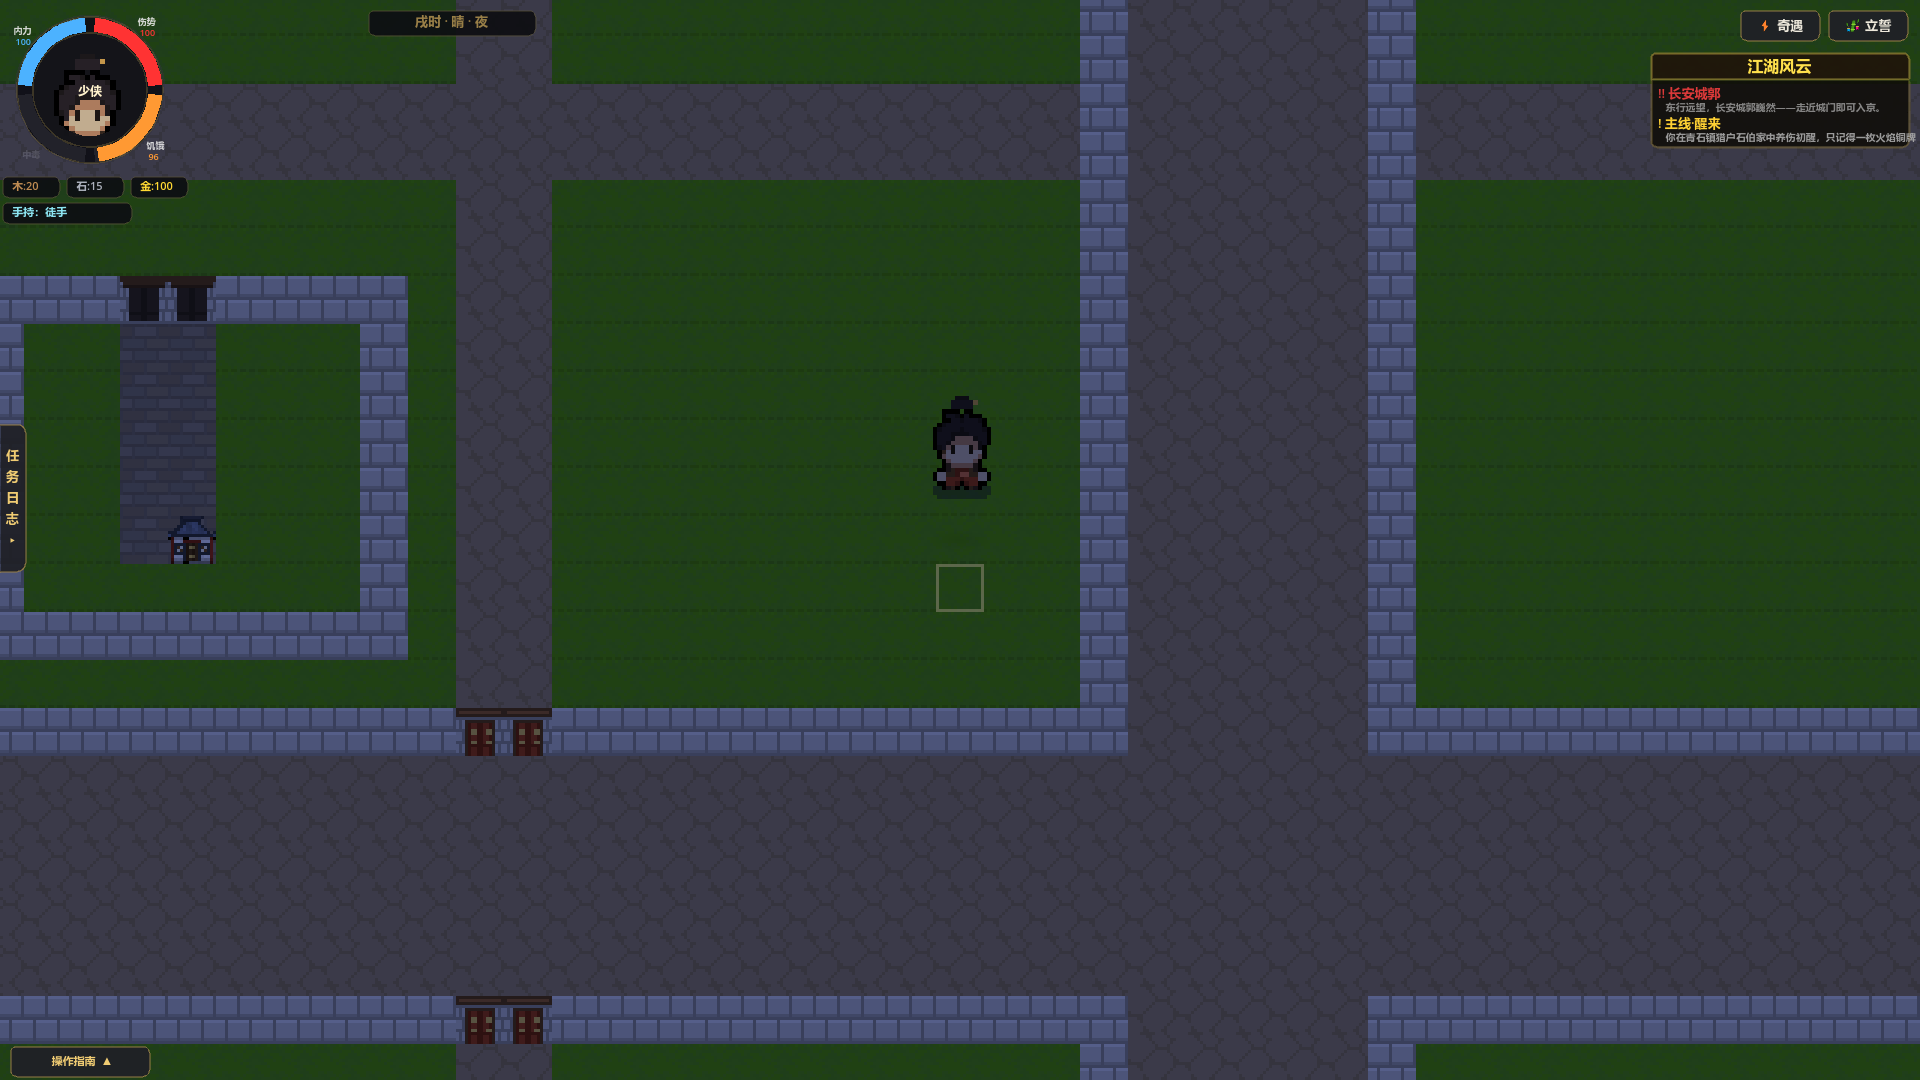
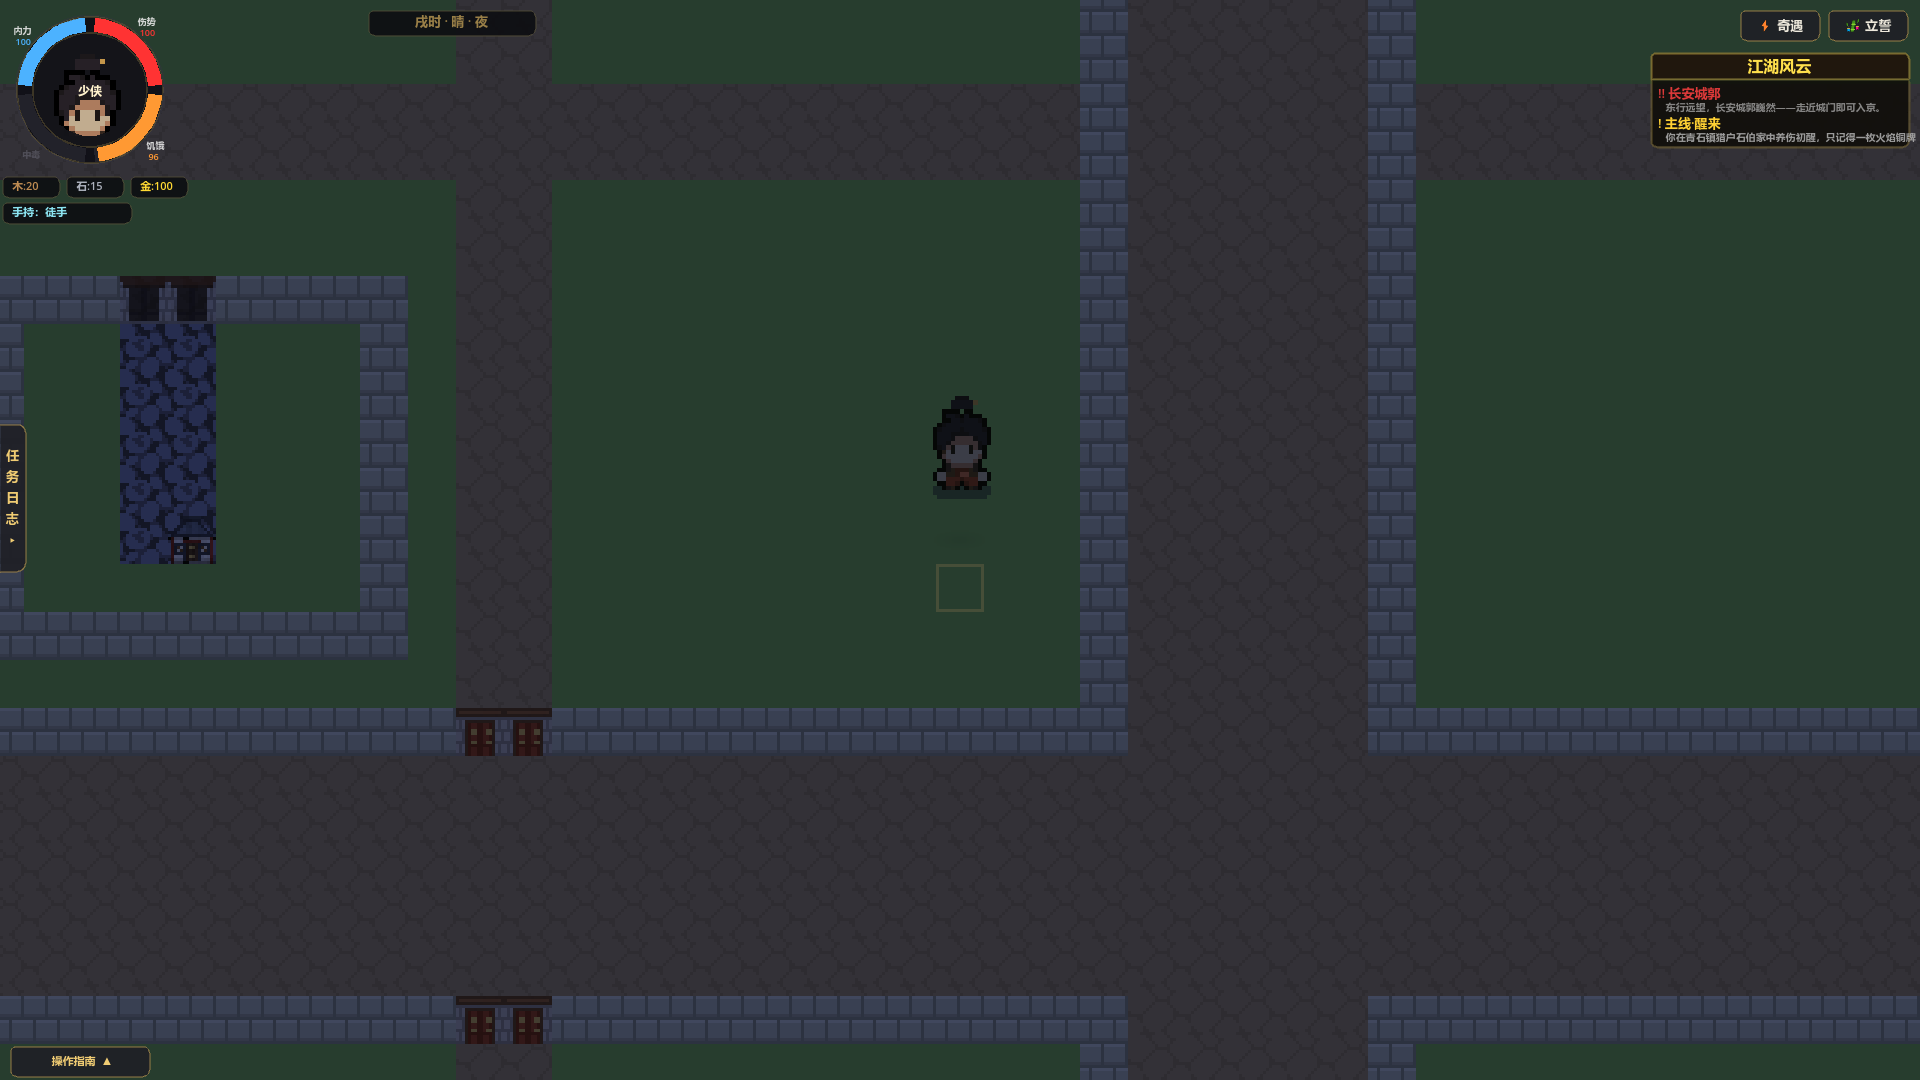
feat: 整包换血Slice B——地形瓦片/水系六帧/岸环八向/松橡四季树表切MW(regress118绿/E2E全PASS)
- tools/import_mw22_tiles.py(新): MW->sprites/tiles_mw22/(31文件,gitignore本地生成)——地面13+装饰11+water_anim 96x16六帧(MW中心帧实测静止->程序化对角微光波纹)+shore.png 80x80岸环八向(MW池塘边块1:1映射既有shore_cells布局)+山崖x3+松/橡四季树表4x2=8变体(春4/秋2/枯1/雪1程序化调色,树底对齐防悬空)
- tileset_generator.gd: 注册表改[MW首选,自绘回退]双列(25个ID切MW,克隆无MW自动落回自绘版); 水面动画2->6帧; shore源64切MW回退PC
- world_generator.gd: TREE_SHEETS松4/橡8切MW四季表(松cell改64x64圆冠代锥形); TREE_SEASONS按新变体序重映射; 竹9暂留PC包待AI补; 树表加载加fallback
- town_layout_kit.gd: ORCHARD_SHEET切MW oak+fallback
- 踩坑: decor坐标凭印象猜错((0,1)是石/(0,3)是蘑菇)->拼图目检修正; grass_b土斑过多->纯草微亮
- 验证: regress 118/118 PASS; E2E 23项PASS; 实机样张西市MW石簇地面+开放世界四季森林目检过

diff --git a/tools/import_mw22_tiles.py b/tools/import_mw22_tiles.py
@@ -1,0 +1,182 @@
+# -*- coding: utf-8 -*-
+"""Mystic Woods 付费版 -> 长安志 地形瓦片管线（整包换血 Slice B）
+全部 MW 派生瓦片输出到 sprites/tiles_mw22/（gitignore，本地生成）：
+  地面: grass(+a/b/patch/dark) path farmland(+wet) sand(+a/b) dirt_patch stone
+  装饰: flower daisy flower_white/yellow tuft_a/b/c mushroom rock fence bridge
+  水系: water_anim.png 96x16 六帧动画条 + shore.png 80x80 岸环八向(MW池塘边块)
+  山崖: mountain(+b/c) —— MW 石簇
+  树表: tree_oak.png / tree_pine.png 4x2=8变体(春/秋/枯/雪程序化调色)，竹保留PC包
+唐风色板烘焙（tang_shift 与灰盒样张同源：绿->橄榄 / 棕->暖土）。
+⚠ 授权：MW 禁再分发，tiles_mw22/ 已 gitignore——克隆后本地重跑本工具。
+"""
+import os, sys, colorsys
+from PIL import Image
+
+ROOT = os.path.dirname(os.path.dirname(os.path.abspath(__file__)))
+MW = os.path.join(ROOT, "downloaded_assets", "mystic_woods_2.2", "sprites")
+OUT = os.path.join(ROOT, "sprites", "tiles_mw22")
+os.makedirs(OUT, exist_ok=True)
+
+T = 16
+
+
+def P(*p):
+    return os.path.join(MW, *p)
+
+
+def tang(im):
+    """唐风色板微调（绿->降饱和偏橄榄；棕->提暖偏土黄），与 tools/mw_graybox_sample.py 同源"""
+    im = im.copy()
+    px = im.load()
+    for y in range(im.height):
+        for x in range(im.width):
+            r, g, b, a = px[x, y]
+            if a < 10:
+                continue
+            if g > r + 10 and g > b + 10:
+                h, s, v = colorsys.rgb_to_hsv(r/255, g/255, b/255)
+                r2, g2, b2 = colorsys.hsv_to_rgb((h - 0.015) % 1.0, min(1.0, s*0.82), min(1.0, v*1.04))
+                px[x, y] = (int(r2*255), int(g2*255), int(b2*255), a)
+            elif r > g > b and r - b > 15:
+                px[x, y] = (min(255, int(r*1.06)), int(g*0.99), int(b*0.86), a)
+    return im
+
+
+def crop(im, tx, ty, ts=T):
+    return im.crop((tx*ts, ty*ts, (tx+1)*ts, (ty+1)*ts))
+
+
+def val_mul(im, mul):
+    """整图明度乘法（草地变体/暗草/雪景压暗用）"""
+    im = im.copy()
+    px = im.load()
+    for y in range(im.height):
+        for x in range(im.width):
+            r, g, b, a = px[x, y]
+            if a >= 10:
+                px[x, y] = (min(255, int(r*mul)), min(255, int(g*mul)), min(255, int(b*mul)), a)
+    return im
+
+
+def recolor_green(im, fn):
+    """仅对绿色系像素做 fn(r,g,b)->(r,g,b)（树冠秋色/枯色/雪覆，不动树干/地面）"""
+    im = im.copy()
+    px = im.load()
+    for y in range(im.height):
+        for x in range(im.width):
+            r, g, b, a = px[x, y]
+            if a < 10 or not (g > r + 10 and g > b + 10):
+                continue
+            nr, ng, nb = fn(r, g, b)
+            px[x, y] = (nr, ng, nb, a)
+    return im
+
+
+def autumn(im):
+    return recolor_green(im, lambda r, g, b: (min(255, int(g*1.35)+30), int(g*0.85), int(b*0.45)))
+
+
+def bare(im):
+    return recolor_green(im, lambda r, g, b: (int(g*0.72), int(g*0.52), int(g*0.34)))
+
+
+def snowy(im):
+    return recolor_green(im, lambda r, g, b: (int(r*0.35+160), int(g*0.35+175), int(b*0.30+195)))
+
+
+def save(im, name):
+    im.save(os.path.join(OUT, name))
+    print("  ", name, im.size)
+
+
+def main():
+    plains = Image.open(P("tilesets", "plains.png")).convert("RGBA")
+    grass_t = Image.open(P("tilesets", "grass.png")).convert("RGBA")
+    decor = Image.open(P("tilesets", "decor_16x16.png")).convert("RGBA")
+    fences = Image.open(P("tilesets", "fences.png")).convert("RGBA")
+    walls = Image.open(P("tilesets", "walls", "walls.png")).convert("RGBA")
+    wooden = Image.open(P("tilesets", "floors", "wooden.png")).convert("RGBA")
+    water1 = Image.open(P("tilesets", "water1.png")).convert("RGBA")
+    objects = Image.open(P("objects", "objects.png")).convert("RGBA")
+
+    print("[mw22-tiles] ground:")
+    g0 = crop(plains, 2, 5)                       # 纯草
+    save(tang(g0), "grass.png")
+    save(tang(crop(plains, 0, 3)), "grass_a.png")
+    save(tang(val_mul(g0, 1.06)), "grass_b.png")  # 微亮纯草（避免土斑过多的旧选(3,3)）
+    save(tang(val_mul(g0, 0.88)), "grass_patch.png")
+    save(tang(val_mul(g0, 0.80)), "grass_dark.png")
+    save(tang(crop(plains, 2, 1)), "path.png")    # 纯土
+    save(tang(val_mul(crop(plains, 2, 1), 0.78)), "farmland.png")
+    save(tang(val_mul(crop(plains, 2, 1), 0.72)), "farmland_wet.png")
+    save(val_mul(tang(crop(plains, 4, 1)), 1.28), "sand.png")
+    save(val_mul(tang(crop(plains, 5, 1)), 1.24), "sand_a.png")
+    save(val_mul(tang(crop(plains, 5, 2)), 1.32), "sand_b.png")
+    save(tang(crop(plains, 4, 1)), "dirt_patch.png")
+    save(crop(plains, 2, 9), "stone.png")         # 纯石板（无tang，石色不动）
+
+    print("[mw22-tiles] decor:")
+    # decor_16x16 4x5 实测: (0,0)草丛 (1,0)双叶 (2,0)黄花丛 (0,2)红白花 (1,2)白花细碎 (2,2)花簇 (3,2)雏菊 (0,3)红蘑菇
+    save(tang(crop(decor, 0, 0)), "tuft_a.png")
+    save(tang(crop(decor, 1, 0)), "tuft_b.png")
+    save(tang(crop(decor, 2, 0)), "tuft_c.png")
+    save(tang(crop(decor, 1, 2)), "flower_white.png")
+    save(tang(crop(decor, 2, 2)), "flower_yellow.png")
+    save(tang(crop(decor, 0, 2)), "flower.png")
+    save(tang(crop(decor, 3, 2)), "daisy.png")
+    save(tang(crop(decor, 0, 3)), "mushroom.png")
+    save(tang(crop(plains, 0, 8)), "rock.png")    # 带草石簇（碰撞瓦）
+    save(tang(crop(fences, 2, 0)), "fence.png")
+    save(wooden, "bridge.png")                    # MW 木地板=桥面（无tang，木色原样）
+
+    print("[mw22-tiles] water:")
+    # MW 六帧只动画池塘边线、中心纯静止（实测帧差=None）-> 大水域以 MW 水色为底
+    # 程序化对角微光波纹（沿用旧"双帧波纹"思路，6帧相位推移）
+    base = crop(water1, 2, 1)
+    strip = Image.new("RGBA", (96, 16), (0, 0, 0, 0))
+    for i in range(6):
+        fr = base.copy()
+        px = fr.load()
+        for y in range(16):
+            for x in range(16):
+                if (x + y + i * 3) % 16 < 3:      # 对角亮带，逐帧推移3px
+                    r, g, b, a = px[x, y]
+                    px[x, y] = (min(255, int(r*1.10)+8), min(255, int(g*1.10)+8), min(255, int(b*1.12)+10), a)
+        strip.paste(fr, (i*16, 0))
+    save(strip, "water_anim.png")
+
+    print("[mw22-tiles] shore(岸环八向, 草沿朝向):")
+    shore = Image.new("RGBA", (80, 80), (0, 0, 0, 0))
+    sm = tang(water1)
+    # 既有 shore_cells 布局: N(2,0) E(4,2) S(2,4) W(0,2) SW(1,4) SE(3,4) NW(1,0) NE(3,0)
+    for dst, src in [((2, 0), (2, 0)), ((4, 2), (3, 1)), ((2, 4), (2, 2)), ((0, 2), (1, 1)),
+                     ((1, 4), (1, 2)), ((3, 4), (3, 2)), ((1, 0), (1, 0)), ((3, 0), (3, 0))]:
+        shore.paste(crop(sm, *src), (dst[0]*16, dst[1]*16))
+    save(shore, "shore.png")
+
+    print("[mw22-tiles] mountain:")
+    save(crop(plains, 2, 9), "mountain.png")
+    save(crop(plains, 4, 9), "mountain_b.png")
+    save(val_mul(crop(plains, 2, 9).transpose(Image.FLIP_LEFT_RIGHT), 0.88), "mountain_c.png")
+
+    print("[mw22-tiles] trees(4x2=8变体, 春/秋/枯/雪):")
+    boxes = [(1, 80, 46, 144), (49, 80, 94, 144), (3, 147, 46, 208), (51, 147, 94, 208)]
+    trees = []
+    for (x0, y0, x1, y1) in boxes:
+        t = Image.new("RGBA", (64, 64), (0, 0, 0, 0))
+        t.paste(objects.crop((x0, y0, x1, y1)), ((64-(x1-x0))//2, 64-(y1-y0)))  # 底对齐=脚踩地
+        trees.append(tang(t))
+    t1, t2, t3, t4 = trees
+    oak = Image.new("RGBA", (256, 128), (0, 0, 0, 0))
+    for i, v in enumerate([t1, t2, autumn(t1), autumn(t2), t3, t4, bare(t1), snowy(t1)]):
+        oak.paste(v, ((i % 4)*64, (i//4)*64))
+    save(oak, "tree_oak.png")
+    pine = Image.new("RGBA", (256, 128), (0, 0, 0, 0))
+    for i, v in enumerate([t3, t4, autumn(t3), bare(t3), t4, autumn(t4), bare(t4), snowy(t3)]):
+        pine.paste(v, ((i % 4)*64, (i//4)*64))
+    save(pine, "tree_pine.png")
+    print("[mw22-tiles] done ->", OUT)
+
+
+if __name__ == "__main__":
+    main()
